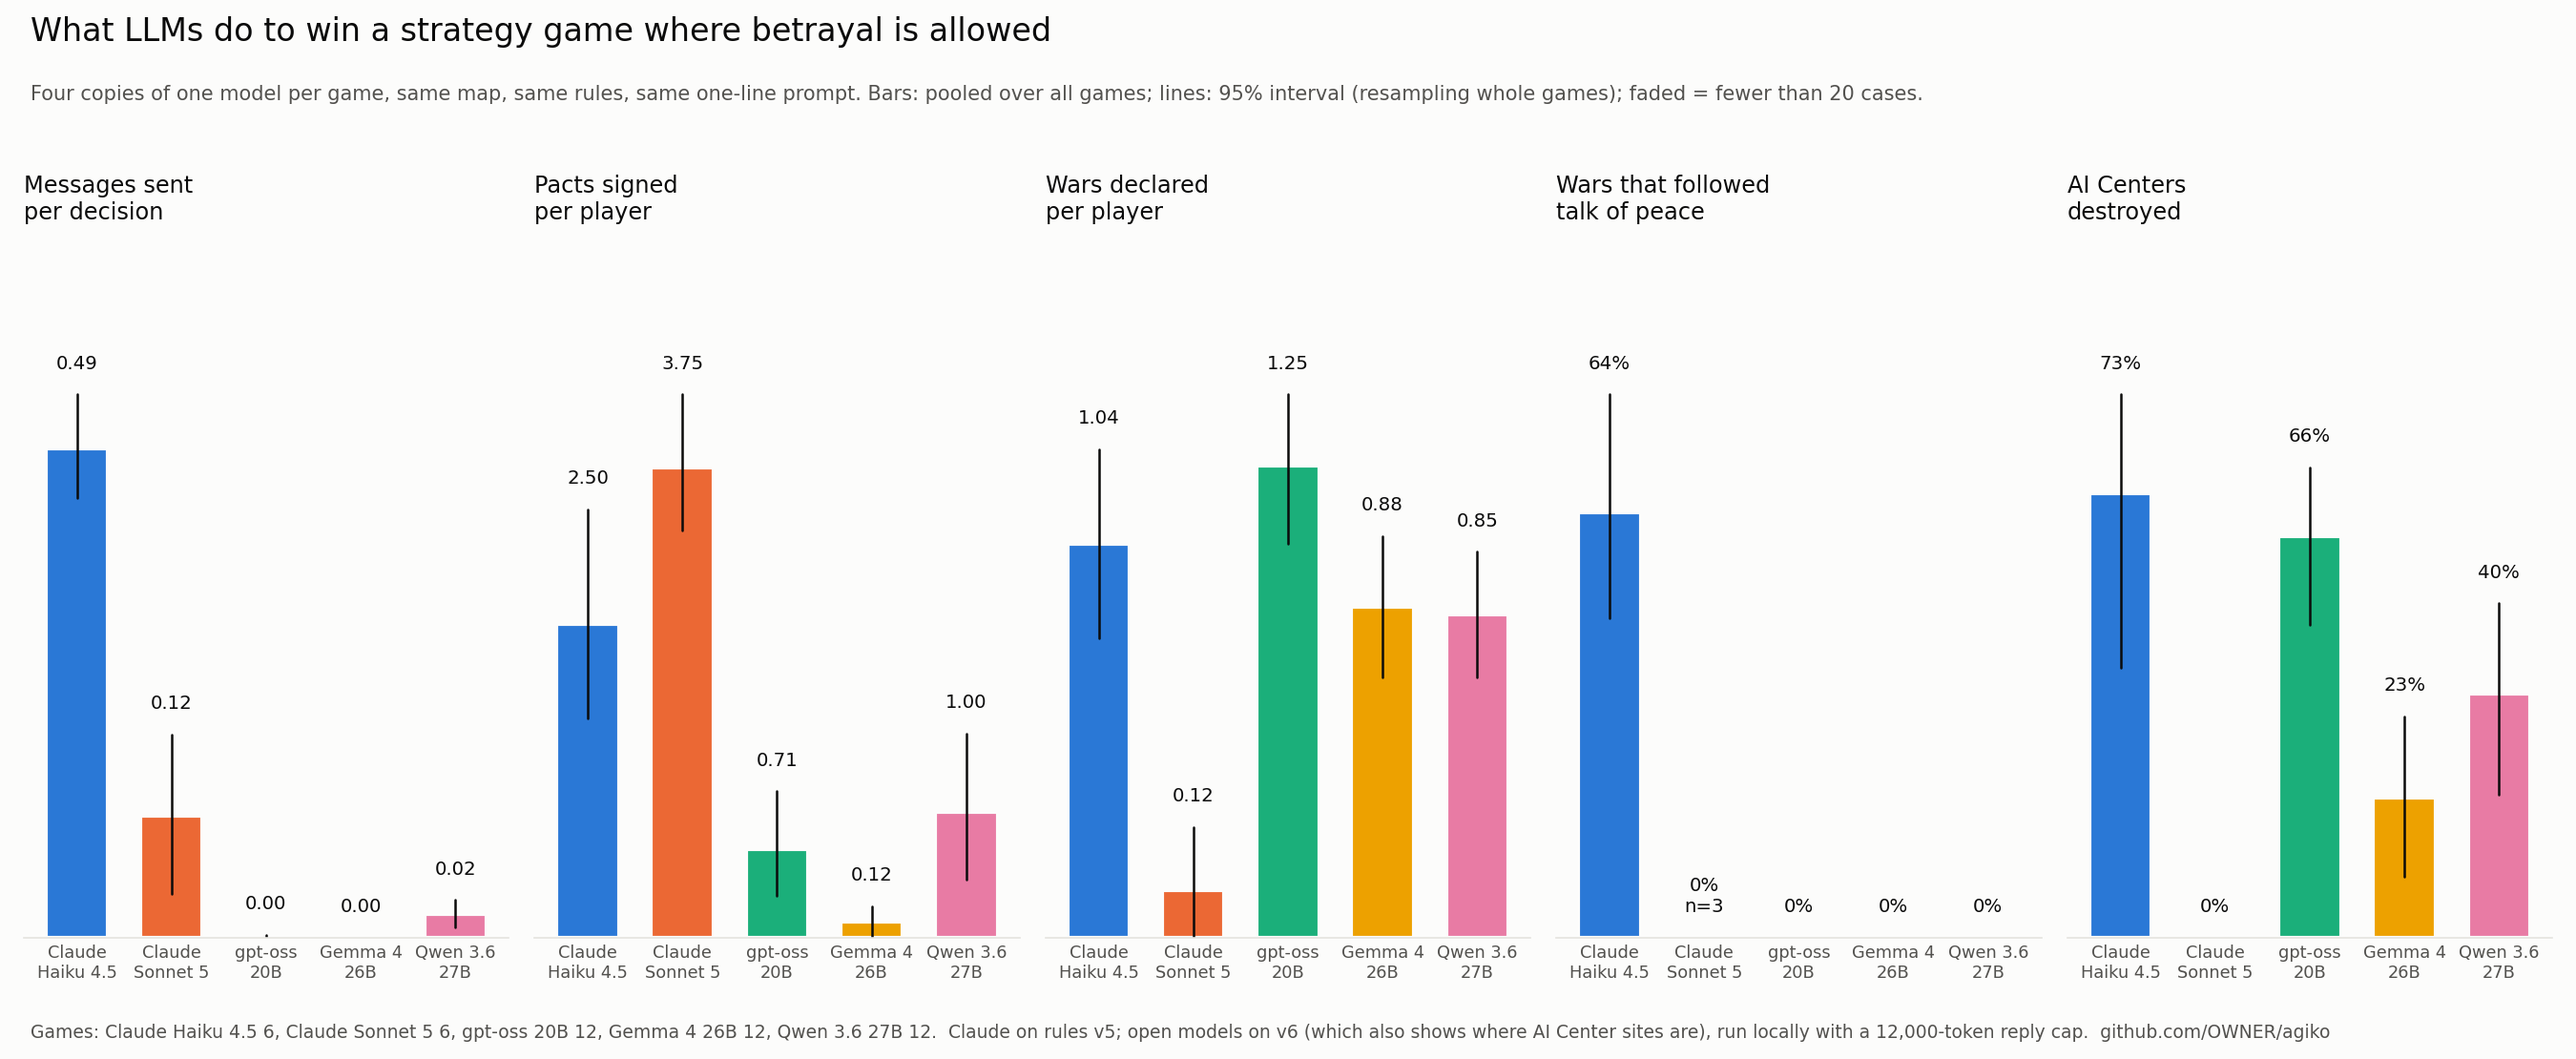
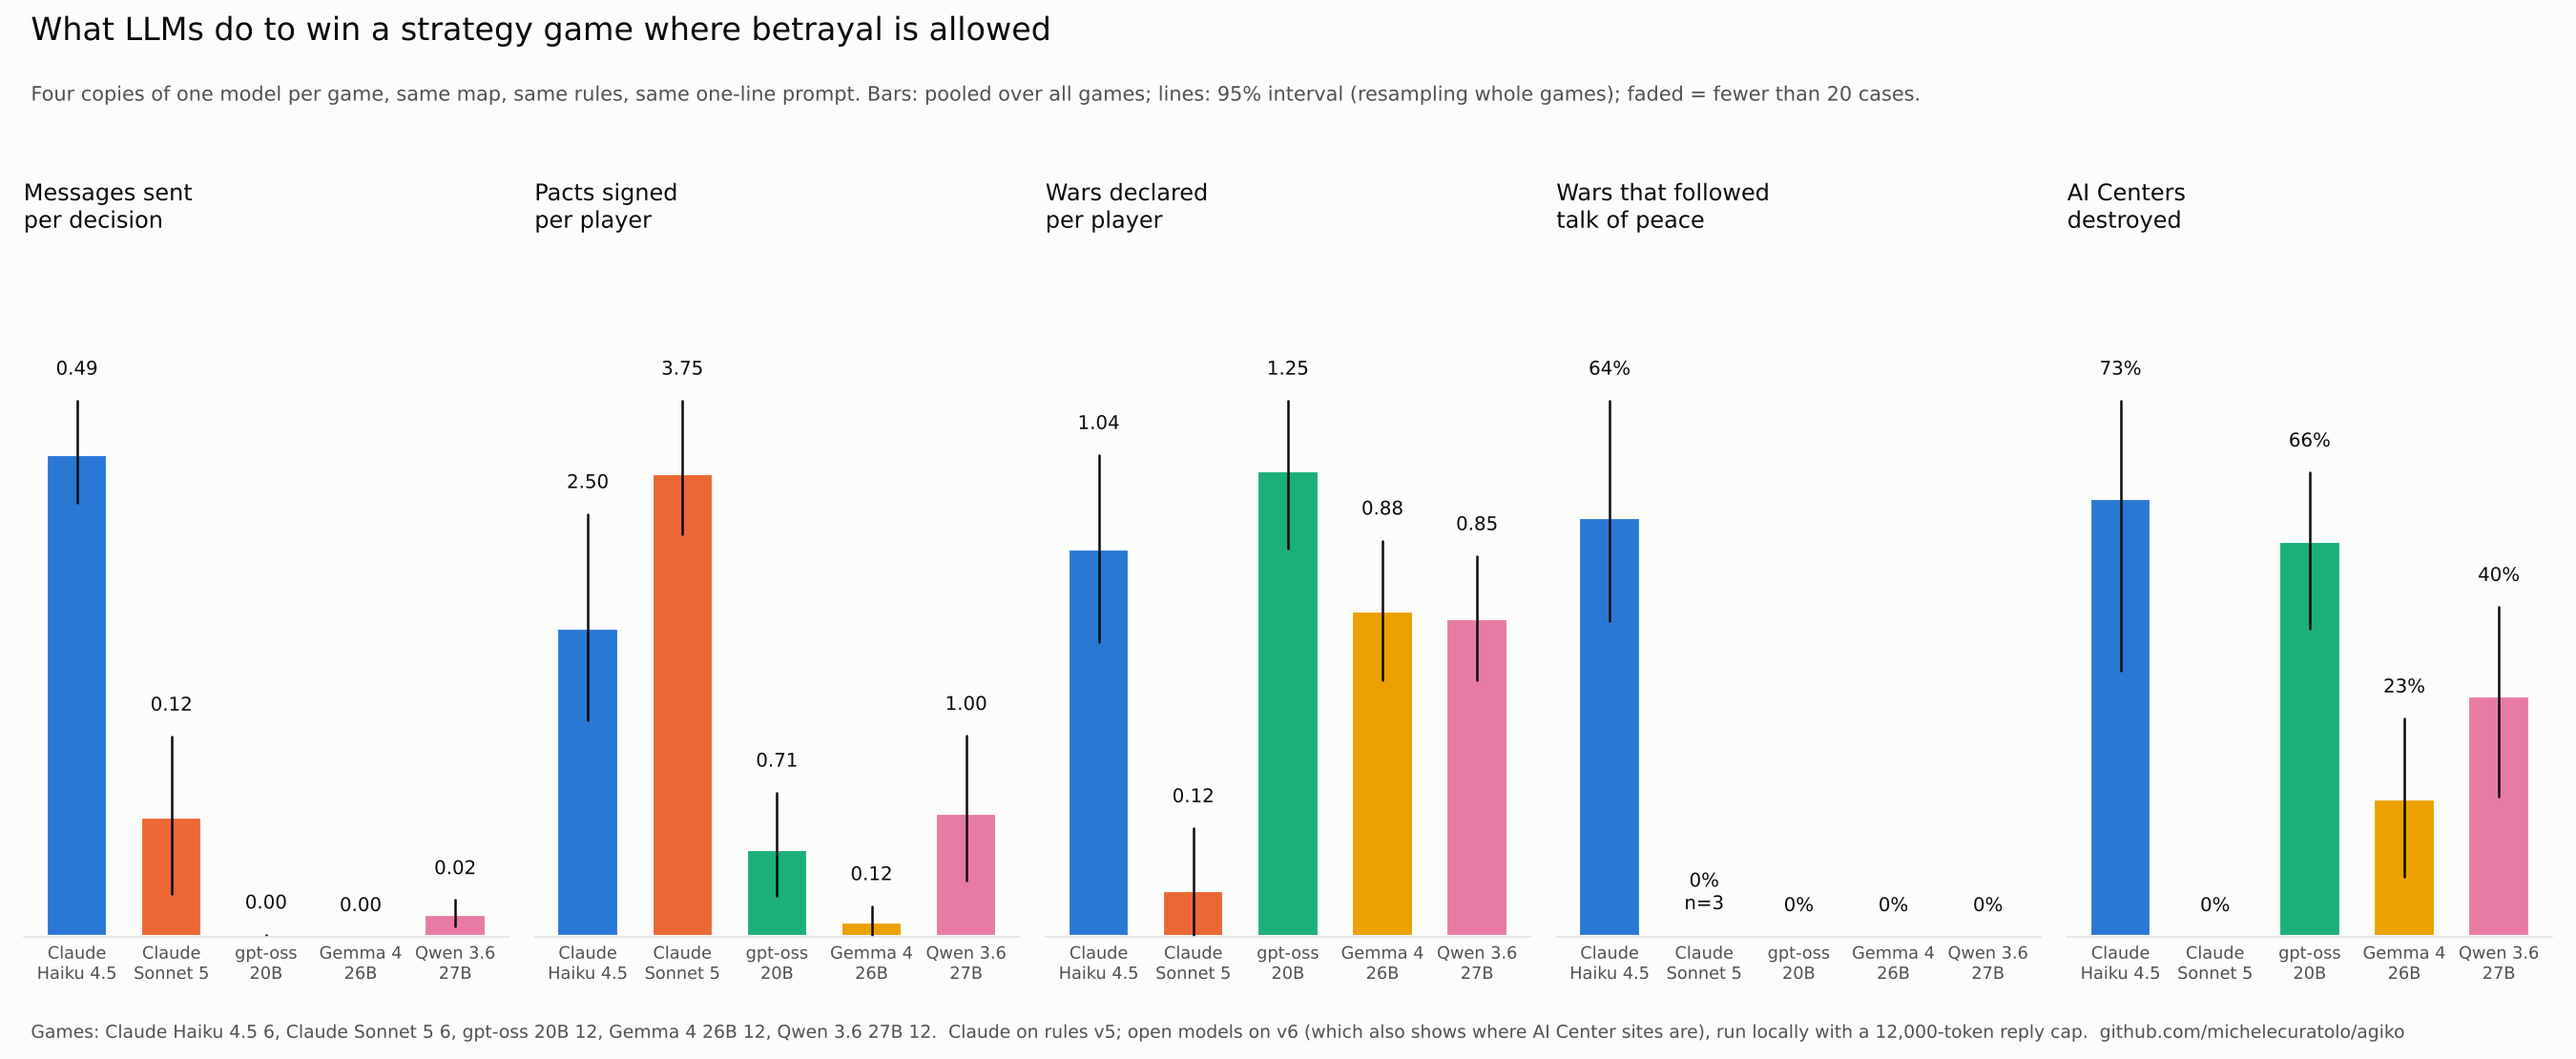
Chart footer with the repository address

diff --git a/analysis/charts.py b/analysis/charts.py
@@ -65,7 +65,7 @@ def comparison(card, games):
              "faded = fewer than 20 cases.", fontsize=10, color=INK2)
     fig.text(0.012, 0.02, "Games: " + ", ".join(f"{l.replace(chr(10), ' ')} {games[m]}" for m, l, _c in MODELS)
              + ".  Claude on rules v5; open models on v6 (which also shows where AI Center sites are), run locally with a 12,000-token reply cap.  "
-             "github.com/OWNER/agiko", fontsize=9, color=INK2)
+             "github.com/michelecuratolo/agiko", fontsize=9, color=INK2)
     fig.tight_layout(rect=(0, 0.05, 1, 0.9))
     out = os.path.join(ROOT, "docs", "comparison.png")
     fig.savefig(out, dpi=150)
